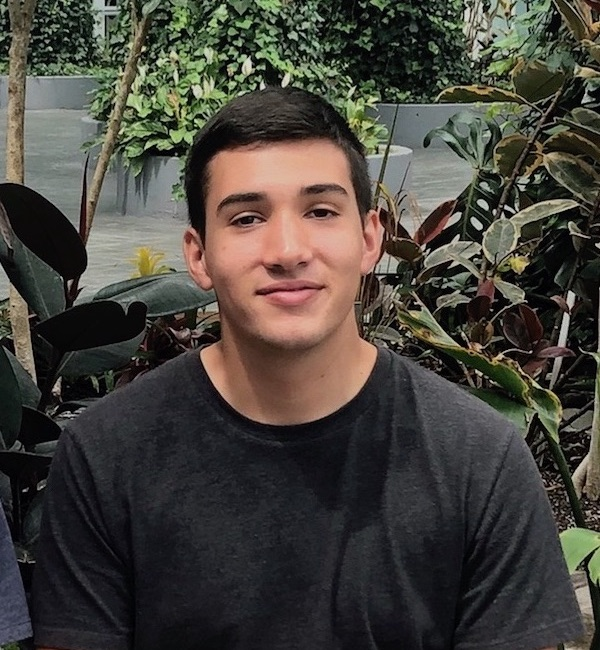
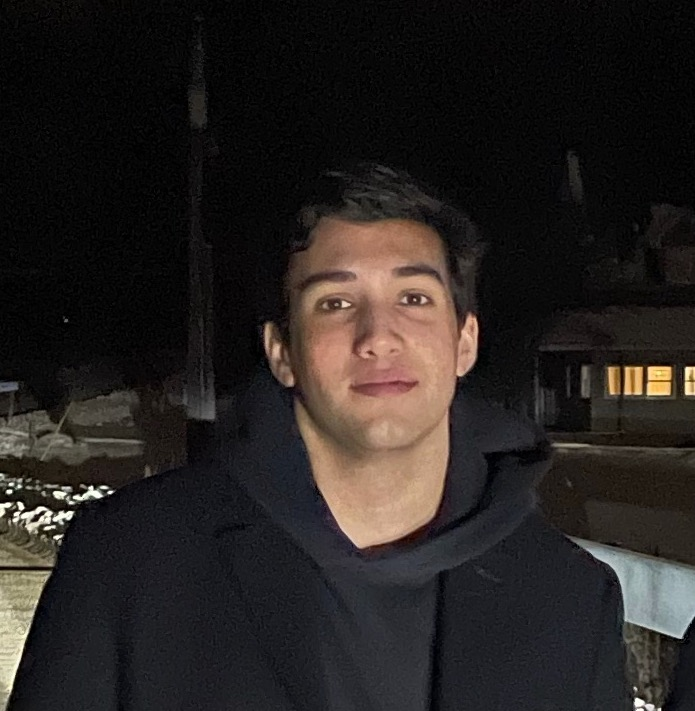
2023 Copy and Image Update

diff --git a/index.html b/index.html
@@ -75,17 +75,17 @@
                                         <div class="about-contentbox">
                                             <div class="animate" data-animate="fadeInUp">
                                                 <h2>Who am I?</h2>
-                                                <p>I'm a freshman at the <strong>University of Wisconsin - Madison</strong> and I plan on majoring in <strong>Computer Engineering</strong> along with a minor in <strong>Entreprenuership</strong>. While being a full-time college student, I invest in stocks and work on side projects with great partners and friends.</p>
+                                                <p>I'm a self-taught programmer that codes mainly for fun and to learn. I'm also very interested in Bitcoin and have helped build a large Bitcoin mine with over 10,000 ASIC miners in less then a year. Additionally, I invest in stocks & crypto and work on side projects with great partners and friends.</p>
                                             </div>
                                             <div class="facts-list owl-carousel">
                                                 <div class="item animate" data-animate="fadeInUp">
                                                     <div class="counter-box">
-                                                        <i class="fa fa-support counter-icon" aria-hidden="true"></i><span class="count-number">18</span> Years Alive
+                                                        <i class="fa fa-support counter-icon" aria-hidden="true"></i><span class="count-number">20</span> Solar Orbits
                                                     </div>
                                                 </div>
                                                 <div class="item animate" data-animate="fadeInUp">
                                                     <div class="counter-box">
-                                                        <i class="fa fa-graduation-cap counter-icon" aria-hidden="true"></i><span class="count-number">1</span> Declared Major
+                                                        <i class="fa fa-graduation-cap counter-icon" aria-hidden="true"></i><span class="count-number">3</span> Computer Langauges
                                                     </div>
                                                 </div>
                                                 <div class="item animate" data-animate="fadeInUp">
@@ -97,7 +97,7 @@
                                         </div>
                                     </div>
                                     <div class="col-md-6">
-                                        <figure class="about-img animate" data-animate="fadeInUp"><img src="images/damian.jpg" width="450px"  class="rounded" alt=""></figure>
+                                        <figure class="about-img animate" data-animate="fadeInUp"><img src="images/damian.jpg" width="350px"  class="rounded" alt=""></figure>
                                     </div>
                                 </div>
                             </div>
@@ -119,7 +119,7 @@
                                         <div class="service-box">
                                             <span class="service-icon"><i class="fa fa-desktop" aria-hidden="true"></i></span>
                                             <h3>Website Development</h3>
-                                            <p>I build fully responsive websites using web technologies such as HTML, CSS, JS, Bootstrap, and jQuery. </p>
+                                            <p>I build fully responsive websites using web technologies such as HTML, CSS, JS, and Bootstrap. </p>
                                         </div>
                                     </div>
                                     <div class="item animate" data-animate="fadeInUp">
@@ -132,8 +132,8 @@
                                     <div class="item animate" data-animate="fadeInUp">
                                         <div class="service-box">
                                             <span class="service-icon"><i class="fa fa-mobile" aria-hidden="true"></i></span>
-                                            <h3>Digital Marketing</h3>
-                                            <p>I run fully managed ad campaigns on Instagram, Facebook, and Snapchat. </p>
+                                            <h3>Bitcoin Mining</h3>
+                                            <p>I've helped to design and build over 30 MW of Bitcoin mines around the US. </p>
                                         </div>
                                     </div>
                                 </div>
